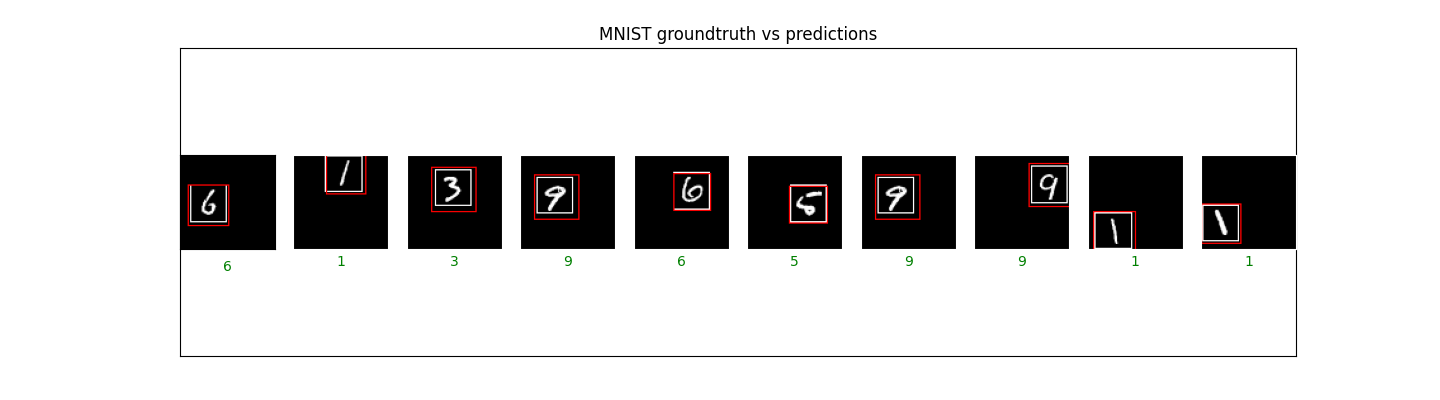
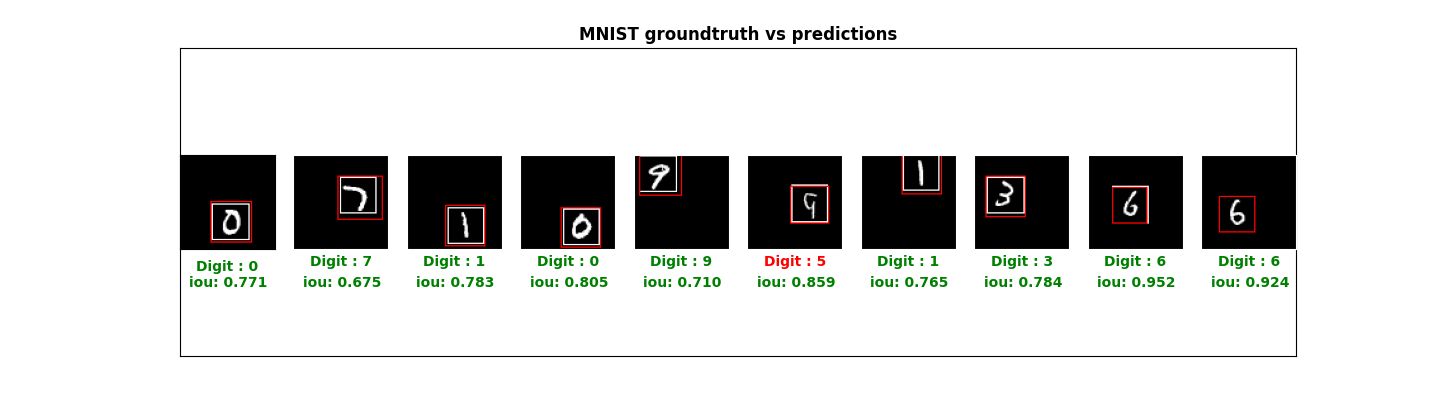
Display IoUs and add bold font.
- Add png image of 10 examples.

diff --git a/WarmingUp_with_MNIST/draw_boxes.py b/WarmingUp_with_MNIST/draw_boxes.py
@@ -40,16 +40,20 @@ def draw_boxes(img, label_true, label_pred, box_true, box_pred,
     n_box_true = box_true[indexes]
     n_box_pred = box_pred[indexes]
 
-    ### Turn to absolute coords
+    ### Turn to absolute coords and get indices of box positions after NMS
     n_box_true_abs = IoU.relative2absolute_true(n_box_true).numpy()
-    tensor_box_pred, temp_indices = NMS.non_max_suppression(n_box_pred, n_label_pred, 0.6)
-    n_box_pred = tensor_box_pred[N, temp_indices[:,0], temp_indices[:,1]].numpy()
-
+    n_box_pred_abs, temp_indices = NMS.non_max_suppression(n_box_pred, n_label_pred, 0.6)
+    n_box_pred_abs = n_box_pred_abs[N, temp_indices[:,0], temp_indices[:,1]].numpy()
+    
+    ### Get label predictions with respect to prediction boxes
     n_label_pred_argmax = n_label_pred_argmax[N, temp_indices[:,0], temp_indices[:,1]]
+
+    ### Get IoU between pred and true boxes
+    n_iou = IoU.intersection_over_union(n_box_true_abs, n_box_pred_abs)
 
     # Set plot configs
     all_plots = plt.figure(figsize=(20, 4))
-    plt.title(title)
+    plt.title(title, fontweight='bold')
     plt.yticks([])
     plt.xticks([])
 
@@ -58,7 +62,7 @@ def draw_boxes(img, label_true, label_pred, box_true, box_pred,
         subplots = all_plots.add_subplot(1, nb_sample, k+1)
 
         # Dispay label name (0,1,2,...,9)
-        plt.xlabel(str(n_label_pred_argmax[k]))
+        plt.xlabel(f"Digit : {n_label_pred_argmax[k]}", fontweight='bold')
         
         # Display in red if pred is false
         if n_label_pred_argmax[k] != n_label_true_argmax[k]:
@@ -66,22 +70,22 @@ def draw_boxes(img, label_true, label_pred, box_true, box_pred,
         else : 
             subplots.xaxis.label.set_color('green')
         
+        # Draw true and pred bounding boxes
         img_to_draw = draw_boxes_utils.draw_bounding_boxes_on_image_array(
             image = n_imgs[k], 
             box_true = n_box_true_abs[k], 
-            box_pred = n_box_pred[k],
+            box_pred = n_box_pred_abs[k],
             color = ["white", "red"], 
             display_str_list = ["true", "pred"]
             )
 
-    ### TODO extract IoU from relative2absolute
-    # if len(iou) > i :
-    #     color = "black"
-    # if (n_iou[i] < iou_threshold):
-    #   color = "red"
-    # ax.text(0.2, -0.3, "iou: %s" %(n_iou[i]), color=color, transform=ax.transAxes)
-    # plt.imshow(np.array(img_to_draw))
-
+        # Display iou in red if iou < threshold
+        if (n_iou[k] < iou_threshold):
+            color = "red"
+        else :
+            color = "green"
+        subplots.text(0.10, -0.4, f"iou: {n_iou[k].item():.3f}", color=color, transform=subplots.transAxes, fontweight='bold')
+            
     plt.show()
  
    

diff --git a/WarmingUp_with_MNIST/draw_boxes_utils.py b/WarmingUp_with_MNIST/draw_boxes_utils.py
@@ -27,6 +27,7 @@ def draw_bounding_boxes_on_image_array(image:np.ndarray, box_true, box_pred, col
     plt.rc('figure', facecolor='F0F0F0')# Matplotlib fonts
     MATPLOTLIB_FONT_DIR = os.path.join(os.path.dirname(plt.__file__), "mpl-data/fonts/ttf")
     ################################################################################
+
     plt.yticks([])
     plt.xticks([])
 
@@ -35,8 +36,6 @@ def draw_bounding_boxes_on_image_array(image:np.ndarray, box_true, box_pred, col
     rgbimg.paste(image_pil)
     draw_bounding_boxes_on_image(rgbimg, box_true, box_pred, color, thickness, display_str_list)
     plt.imshow(np.array(rgbimg))
-
-    return np.array(rgbimg)
 
 
 
